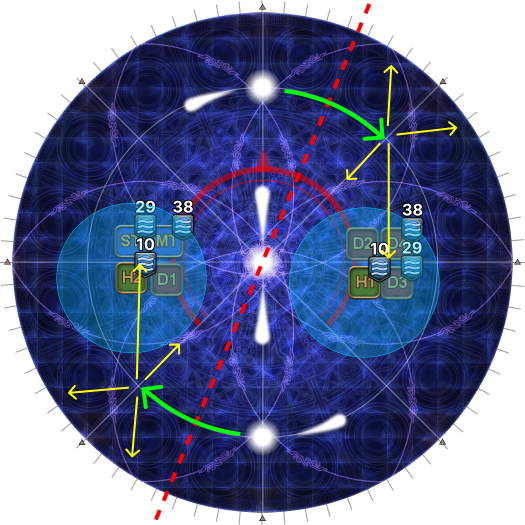
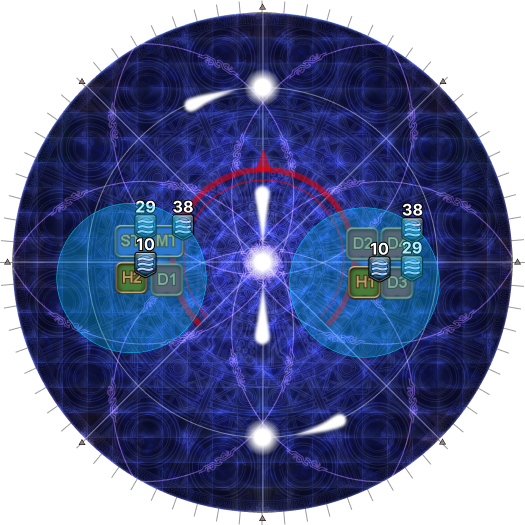
Separate Apocalypse safespots from Water III

diff --git a/_ultimates/fru/03_oracle_of_darkness.en.md b/_ultimates/fru/03_oracle_of_darkness.en.md
@@ -466,25 +466,6 @@ a tank).
       AoEs will appear.</p>
       <p>A white streak also originates from each point and follows the line
       around the arena clockwise or anti-clockwise.</p>
-      <p>Start from the outside lights, and look 45 degrees in the <b>opposite
-      direction</b> that the lights are travelling in (green arrows).</p>
-      <p>These will be each group's reference points in their half of the
-      arena:</p>
-      <ul>
-        <li><b>SW to N:</b> North group.</li>
-        <li><b>S to NE:</b> South group.</li>
-      </ul>
-      <p>From these reference points, there are three more positions to take
-      note of (marked with yellow arrows):</p>
-      <ul>
-        <li>The near position <em>another</em> 45 degrees in the opposite
-        direction that the lights are travelling in.</li>
-        <li>The two far positions at the edge, 2.5 tick marks on either side of
-        the cardinal/intercardinal mark.</li>
-      </ul>
-      <p>These will be your spread positions later.</p>
-      <p><em>(In this example, the reference points are NE and SW, so the "base
-      T/H" group goes SW, and the "base DPS" group goes NE.)</em></p>
     </td>
     <td>
       <img src="{{site.baseurl}}/images/ultimates/fru/03/apocalypse_02.jpg">
@@ -492,7 +473,38 @@ a tank).
   </tr>
   <tr>
     <td>
-      <p><b>13.</b> While the water stacks were resolving, the boss also 
+      <p><b>13.</b> While the Water stacks are resolving, determine your future
+      safe spots.</p>
+      <p>Start from the outside lights, and look 45 degrees in the <b>opposite
+      direction</b> that the lights are travelling in (green arrows).</p>
+      <p>These will be each group's reference points in their half of the
+      arena:</p>
+      <ul>
+        <li><b>SW to N:</b> Tank/healers (after any swaps).</li>
+        <li><b>S to NE:</b> DPS group (after any swaps).</li>
+      </ul>
+      <p>From these reference points, there are four more positions to take
+      note of (marked with yellow arrows):</p>
+      <ul>
+        <li>The near position 45 degrees in the opposite direction that the
+        lights are travelling in (towards the center).</li>
+        <li>The near position <em>another</em> 45 degrees in the opposite
+        direction that the lights are travelling in.</li>
+        <li>The two far positions at the edge, 2.5 tick marks on either side of
+        the cardinal/intercardinal mark.</li>
+      </ul>
+      <p>These will be your spread positions later.</p>
+      <p><em>(In this example, the lights start N and S and go anti-clockwise,
+      so the reference points are NE and SW (clockwise from N/S). Thus, the
+      "base T/H" group goes SW, and the "base DPS" group goes NE.)</em></p>
+    </td>
+    <td>
+      <img src="{{site.baseurl}}/images/ultimates/fru/03/apocalypse_02b.jpg">
+    </td>
+  </tr>
+  <tr>
+    <td>
+      <p><b>14.</b> While the water stacks were resolving, the boss also 
       readies <em>Spirit Taker</em>- the boss will jump on a random target
       with an AoE attack that knocks anyone else hit out of the arena.</p>
       <p>After the water stacks resolve, quickly spread out for <em>Spirit 
@@ -504,7 +516,7 @@ a tank).
   </tr>
   <tr>
     <td>
-      <p><b>14.</b> The boss's <em>Spirit Taker</em> resolves.</p>
+      <p><b>15.</b> The boss's <em>Spirit Taker</em> resolves.</p>
     </td>
     <td>
       <img src="{{site.baseurl}}/images/ultimates/fru/03/apocalypse_04.jpg">
@@ -512,7 +524,7 @@ a tank).
   </tr>
   <tr>
     <td>
-      <p><b>15.</b> The boss will return to the center.</p>
+      <p><b>16.</b> The boss will return to the center.</p>
       <p>The trails will continue for a total of six pulses (indicating six 
       upcoming sets of AoEs) and end up in this formation relative to the 
       first set of pulses.</p>
@@ -525,7 +537,7 @@ a tank).
   </tr>
   <tr>
     <td>
-      <p><b>16.</b> The AoEs now resolve for real.</p>
+      <p><b>17.</b> The AoEs now resolve for real.</p>
       <p>The AoEs will appear at the points that pulsed earlier for a total
       of six waves.</p>
     </td>
@@ -535,7 +547,7 @@ a tank).
   </tr>
   <tr>
     <td>
-      <p><b>17.</b> The second set of AoEs resolve together with the party's 
+      <p><b>18.</b> The second set of AoEs resolve together with the party's 
       spread markers.</p>
     </td>
     <td>
@@ -544,7 +556,7 @@ a tank).
   </tr>
   <tr>
     <td>
-      <p><b>18.</b> Quickly move to the center while avoiding the third set of 
+      <p><b>19.</b> Quickly move to the center while avoiding the third set of 
       AoEs.</p>
       <ul>
         <li>Players towards the center can simply walk in.</li>
@@ -558,7 +570,7 @@ a tank).
   </tr>
   <tr>
     <td>
-      <p><b>19.</b> Fourth set of AoEs.</p>
+      <p><b>20.</b> Fourth set of AoEs.</p>
       <p>Use this time to gauge how far you can be from the center and still
       avoid getting hit.</p>
     </td>
@@ -568,7 +580,7 @@ a tank).
   </tr>
   <tr>
     <td>
-      <p><b>20.</b> The second set of <em>Dark Water III</em> stacks resolve
+      <p><b>21.</b> The second set of <em>Dark Water III</em> stacks resolve
       together with the fifth set of AoEs.</p>
       <p>The MT moves out 90 degrees from where the first set of lights pulsed.</p>
     </td>
@@ -578,7 +590,7 @@ a tank).
   </tr>
   <tr>
     <td>
-      <p><b>21.</b> The boss then uses <em>Darkest Dance</em>, which targets
+      <p><b>22.</b> The boss then uses <em>Darkest Dance</em>, which targets
       the furthest player (which should be a tank) with an AoE tankbuster.</p>
       <p><b>Note:</b> <em>Either</em> tank can bait this. However, if there is
       a PLD in the party, they should have priority (with <em>Hallowed
@@ -590,7 +602,7 @@ a tank).
   </tr>
   <tr>
     <td>
-      <p><b>22.</b> The tank that baited <em>Darkest Dance</em> rejoins their 
+      <p><b>23.</b> The tank that baited <em>Darkest Dance</em> rejoins their 
       group.</p>
       <p>Everyone moves towards the boss, and positions to prepare from a
       knockback from the boss in their groups.</p>
@@ -601,7 +613,7 @@ a tank).
   </tr>
   <tr>
     <td>
-      <p><b>23.</b> The boss does a knockback.</p>
+      <p><b>24.</b> The boss does a knockback.</p>
     </td>
     <td>
       <img src="{{site.baseurl}}/images/ultimates/fru/03/apocalypse_13.jpg">
@@ -609,7 +621,7 @@ a tank).
   </tr>
   <tr>
     <td>
-      <p><b>24.</b> The third set of <em>Dark Water III</em> stacks resolve.</p>
+      <p><b>25.</b> The third set of <em>Dark Water III</em> stacks resolve.</p>
       <p>Resolve these near the boss- melee can use their gap closers, but will
       need to back out a little bit to meet up with the healers and ranged.</p>
     </td>
